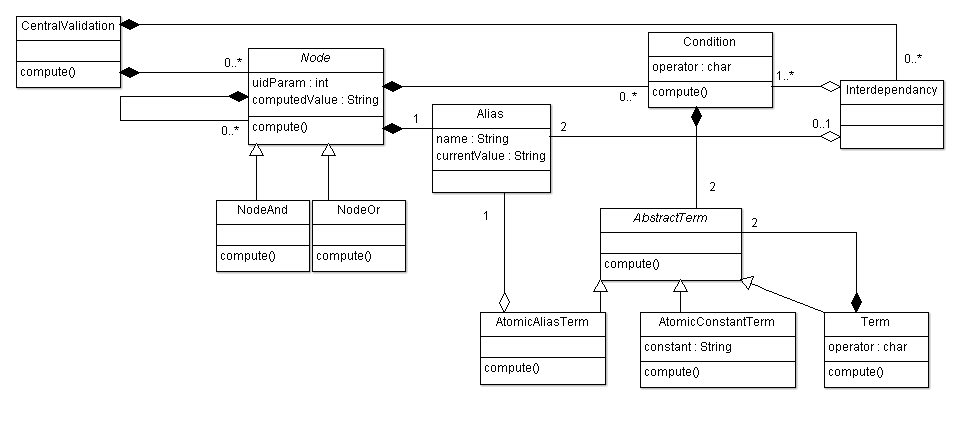
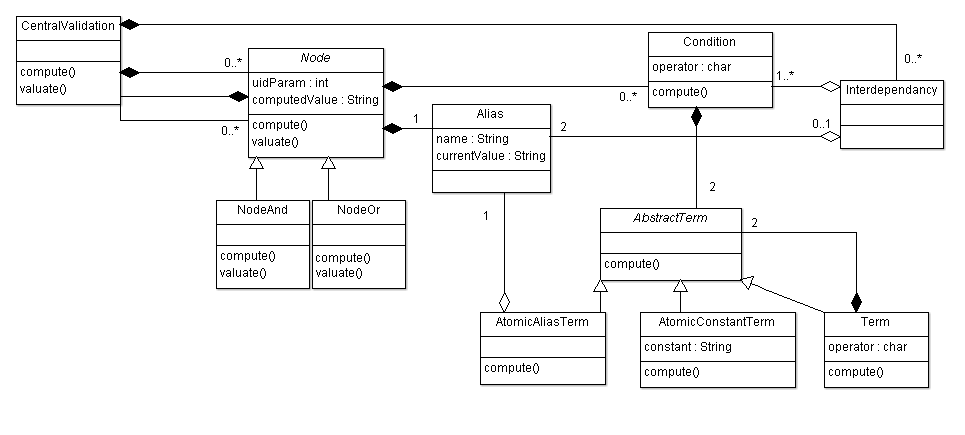
Améliorations implémentation
Reconstruction de l'arbre d'après la formule logique, ajout commentaires
et amélioration de la fonction compute()

diff --git a/Noeud/Node.py b/Noeud/Node.py
@@ -30,7 +30,7 @@ class Node(object):
 
     def setAlias(self, alias):
         self.alias = alias
-    
+
     def updateAlias(self):
         self.alias.setValue(self.computedValue)
 
@@ -40,13 +40,16 @@ class Node(object):
 class NodeAnd(Node):
     def __init__(self, uid, childrens = [], conditions = [], alias = None):
         Node.__init__(self, uid, childrens, conditions, alias)
-    
+
     def compute(self):
         Node.updateAlias(self)
         result = True
-        for cond in self.conditions:
+        for cond in self.conditions:      #On commence par verifier l'ensemble des conditions liees a ce noeud
             print cond
-            result &= cond.compute()
+            result &= cond.compute()      #les conditions sont toujours separees par des 'et'
+        if result:                        #Si les conditions sont verifiees, on peut passer a la verification des enfants
+            for child in self.childs:
+                result &= child.compute() #C'est un noeud 'et' (pour tout) donc c'est TOUS les enfants qui doivent etre vrais
         return result
 
     def __str__(self):
@@ -55,12 +58,17 @@ class NodeAnd(Node):
 class NodeOr(Node):
     def __init__(self, uid, childrens, conditions = [], alias = None):
         Node.__init__(self, uid, childrens, conditions, alias)
-        
+
     def compute(self):
         Node.updateAlias(self)
-        result = False
-        for cond in self.conditions:
-            result |= cond.compute()
+        result = True
+        for cond in self.conditions:      #On commence par verifier l'ensemble des conditions liees a ce noeud
+            print cond
+            result &= cond.compute()      #les conditions sont toujours separees par des 'et'
+        if result:                        #Si les conditions sont verifiees, on peut passer a la verification des enfants
+            result = False
+            for child in self.childs:
+                result |= child.compute() #C'est un noeud 'ou' (il existe) donc il suffit d'un enfant verifie pour que le resultat le soit
         return result
 
     def __str__(self):
@@ -76,10 +84,10 @@ class Alias(object):
         '''
         self.name = name
         self.currentValue = None
-    
+
     def setValue(self, currentValue):
         self.currentValue = currentValue
-    
+
     def getValue(self):
         if self.currentValue != None:
             return self.currentValue
@@ -120,7 +128,7 @@ class Condition(object):
     def setTerms(self, term1, term2):
         self.term1 = term1
         self.term2 = term2
-    
+
     def compute(self):
         print "Evaluate", str(self)
         if self.operateur == "==":
@@ -158,7 +166,7 @@ class AtomicAliasTerm(AbstractTerm):
 
     def __str__(self):
         return str(self.alias)
-    
+
     def compute(self):
         print "Compute the node "+ str(self.alias)
         return self.alias.getValue()
@@ -172,7 +180,7 @@ class AtomicConstantTerm(AbstractTerm):
 
     def __str__(self):
         return str(self.constant)
-    
+
     def compute(self):
         return self.constant
 
@@ -188,7 +196,7 @@ class Term(AbstractTerm):
     def setTerms(self, term1, term2):
         self.term1 = term1
         self.term2 = term2
-    
+
     def compute(self):
         print "Evaluate", str(self)
         if self.operateur == "+":
@@ -200,7 +208,7 @@ class Term(AbstractTerm):
         elif self.operateur == "/":
             return self.term1.compute() / self.term2.compute()
         else:
-            return False    
+            return False
 
     def __str__(self):
         return "(" + str(self.operator) + ":" + str(self.term1) + ","+ str(self.term2) + ")"
@@ -222,7 +230,7 @@ class CentralValidation(object):
 
     def addInterdependancy(self, interdependancy):
         self.interdependancies.append(interdependancy)
-        
+
     def compute(self):
         result = True
         for node in self.nodes:

diff --git a/Noeud/Main.py b/Noeud/Main.py
@@ -10,12 +10,34 @@ from Node import *
 
 def main():
     print "*** Building validation tree ***"
-    print "For any x : For any z : There exists a=x, b=y : x>y and y=z"
+    print "For any a=x : For any c=z : There exists a=x, b=y : x>y and y=z"
+
+    '''
+
+  ----------- CENTRAL ----------
+  |                            |
+  o  (node1)                   o  (node2)
+  |                            |
+  | for any                    | for any
+  |                            |
+ a=x (node3)                  c=z (node5)
+  |
+  | there exists                              [interdep: cond y=z]
+  |
+ b=y (node4) [cond. x>y]
+
+
+
+    '''
 
     #alias x, y, z dans les noeuds
     aliasX = Alias("x")
     aliasY = Alias("y")
     aliasZ = Alias("z")
+
+    uid_a = 1
+    uid_b = 2
+    uid_c = 3
 
     #condition x>y
     condition1 = Condition(">")
@@ -26,18 +48,21 @@ def main():
     condition2.setTerms(AtomicAliasTerm(aliasY), AtomicAliasTerm(aliasZ))
 
     #nodes
-    node3 = NodeAnd(3, [], [], aliasZ)
-    node2 = NodeOr(2, [], [condition1], aliasY)
-    node1 = NodeAnd(1, [node2], [], aliasX)
+    node5 = Node(uid_c, [], [], aliasZ)            #neutral
+    node4 = Node(uid_b, [], [condition1], aliasY)  #neutral
+    node3 = NodeOr(uid_a, [node4], [], aliasX)
+    node2 = NodeAnd(0, [node5], [], None)
+    node1 = NodeAnd(0, [node3], [], None)
 
-    #inter
+    #interdependancy between nodes 4 and 5
     interdep = Interdependancy([aliasY, aliasZ], [condition2])
 
     #Central validation (main class)
-    central = CentralValidation([interdep], [node1, node2, node3])
+    central = CentralValidation([interdep], [node1, node2])
 
     print central
-    print central.compute()
+    # central.valuate()  #import values of parameters from the device META-CLI
+    print central.compute() #compute conditions of the validation tree thanks to the imported values. Return true if the logic formula is verified.
 
     print "***           END              ***"
 
